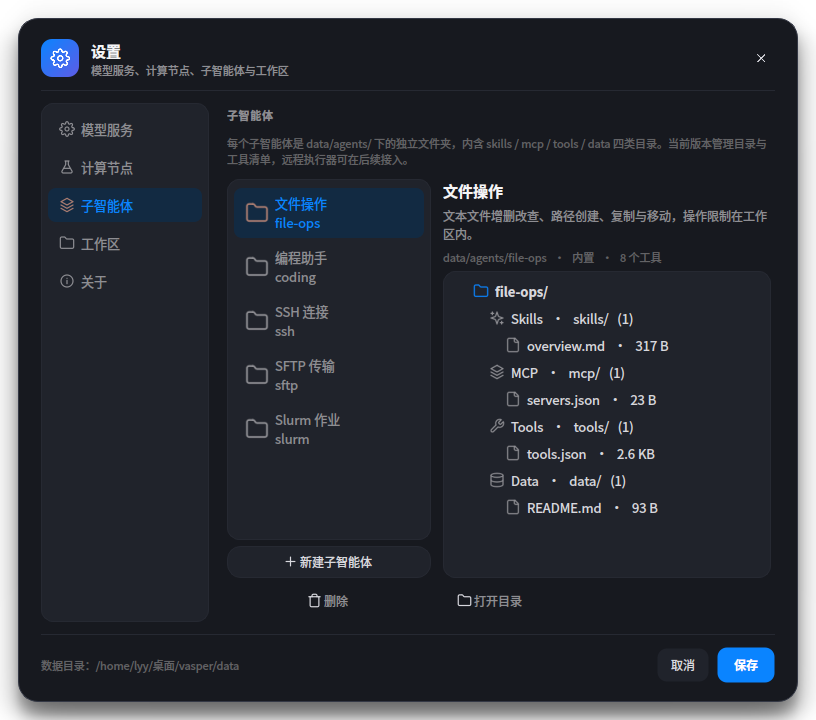
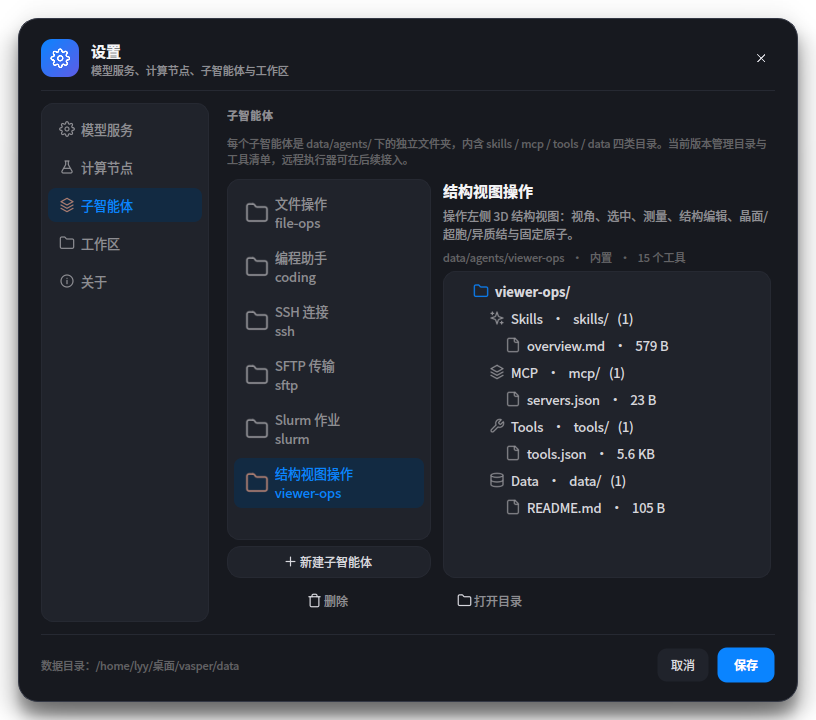
feat: add structure viewer operations subagent manifest

diff --git a/app/subagents.py b/app/subagents.py
@@ -121,6 +121,38 @@ BUILTINS: tuple[dict[str, Any], ...] = (
             _TOOL("slurm_logs", "读取作业日志", {"node": {"type": "string"}, "path": {"type": "string"}}, ["node", "path"]),
         ],
     },
+    {
+        "id": "viewer-ops",
+        "name": "结构视图操作",
+        "icon": "atom",
+        "description": "操作左侧 3D 结构视图：视角、选中、测量、结构编辑、晶面/超胞/异质结与固定原子。",
+        "system_prompt": "你是结构视图操作子智能体。修改结构前说明将改变哪些原子与晶格；删除、晶面切割、超胞和异质结构建前确认参数，操作后报告新的原子数与晶格信息。",
+        "skill": "# 结构视图操作技能\n\n"
+                 "- 视角：旋转、平移、缩放、重置，不改变结构。\n"
+                 "- 选中与测量：按原子序号/元素定位，选中后显示坐标与距离。\n"
+                 "- 编辑：增删改原子前先读取结构；所有坐标同时支持分数坐标与笛卡尔坐标。\n"
+                 "- 晶面：按 Miller 指数切割表面，设置层数与真空层；超胞需给出 nx/ny/nz。\n"
+                 "- 晶格旋转与异质结：保持周期性，异质结需指定两层、晶面、应变与界面间距。\n"
+                 "- 固定原子：用序号/元素/区域选择，固定状态需在视图中可识别。\n",
+        "tools": [
+            _TOOL("view_rotate", "旋转 3D 视角", {"axis": {"type": "string", "enum": ["x", "y", "z"]}, "angle": {"type": "number"}}, ["axis", "angle"]),
+            _TOOL("view_pan", "平移 3D 视图", {"dx": {"type": "number"}, "dy": {"type": "number"}}, ["dx", "dy"]),
+            _TOOL("view_zoom", "缩放 3D 视图", {"factor": {"type": "number", "description": "大于 1 放大，小于 1 缩小"}}, ["factor"]),
+            _TOOL("view_reset", "重置 3D 视角"),
+            _TOOL("select_atom", "选中指定原子", {"index": {"type": "integer"}, "element": {"type": "string"}}, []),
+            _TOOL("inspect_atom", "查看原子元素、序号、坐标与配位", {"index": {"type": "integer"}}, ["index"]),
+            _TOOL("measure_distance", "测量两个原子的距离", {"atom_a": {"type": "integer"}, "atom_b": {"type": "integer"}}, ["atom_a", "atom_b"]),
+            _TOOL("add_atom", "在结构中增加原子", {"element": {"type": "string"}, "x": {"type": "number"}, "y": {"type": "number"}, "z": {"type": "number"}}, ["element", "x", "y", "z"]),
+            _TOOL("modify_atom", "修改原子的元素或坐标", {"index": {"type": "integer"}, "element": {"type": "string"}, "x": {"type": "number"}, "y": {"type": "number"}, "z": {"type": "number"}}, ["index"]),
+            _TOOL("delete_atom", "删除指定原子", {"index": {"type": "integer"}}, ["index"]),
+            _TOOL("cut_surface", "按 Miller 指数切割晶面", {"h": {"type": "integer"}, "k": {"type": "integer"}, "l": {"type": "integer"}, "layers": {"type": "integer"}, "vacuum": {"type": "number"}}, ["h", "k", "l"]),
+            _TOOL("build_supercell", "构建超胞", {"nx": {"type": "integer"}, "ny": {"type": "integer"}, "nz": {"type": "integer"}}, ["nx", "ny", "nz"]),
+            _TOOL("rotate_lattice", "旋转晶格矢量", {"axis": {"type": "string", "enum": ["x", "y", "z"]}, "angle": {"type": "number"}}, ["axis", "angle"]),
+            _TOOL("build_heterojunction", "搭建两层异质结", {"layer_a": {"type": "string"}, "layer_b": {"type": "string"}, "miller": {"type": "string"}, "strain": {"type": "number"}, "gap": {"type": "number"}}, ["layer_a", "layer_b"]),
+            _TOOL("fix_atoms", "固定指定原子", {"indices": {"type": "array", "items": {"type": "integer"}}, "mode": {"type": "string"}}, ["indices"]),
+        ],
+    },
+
 )
 
 

diff --git a/README.md b/README.md
@@ -129,6 +129,7 @@ Vasper 把这些环节放进一个本地窗口：
 | SSH 连接 | `ssh/` | 节点连通性测试、远端命令、上传/下载 |
 | SFTP 传输 | `sftp/` | 上传、下载、列目录、创建目录、删除远端文件 |
 | Slurm 作业 | `slurm/` | 提交、查询、取消、队列与日志 |
+| 结构视图操作 | `viewer-ops/` | 视图旋转/平移/缩放、选中、测量、原子增删改、晶面、超胞、晶格旋转、异质结、固定原子 |
 
 每个目录结构：
 
@@ -145,7 +146,7 @@ data/agents/<id>/
   <img src="assets/screenshot-subagents.png" alt="Vasper 设置 - 子智能体" width="88%">
 </p>
 
-> 当前版本负责子智能体目录、技能与工具清单的管理和展示；SSH / SFTP / Slurm 执行器尚未接入对话自动调用。可在设置中新建自定义子智能体。
+> 当前版本负责子智能体目录、技能与工具清单的管理和展示；SSH / SFTP / Slurm / 结构编辑执行器尚未接入对话自动调用。可在设置中新建自定义子智能体。
 
 ### 桌面体验
 - 无边框圆角窗口 + 柔和阴影，自绘最小化 / 最大化 / 关闭按钮。
